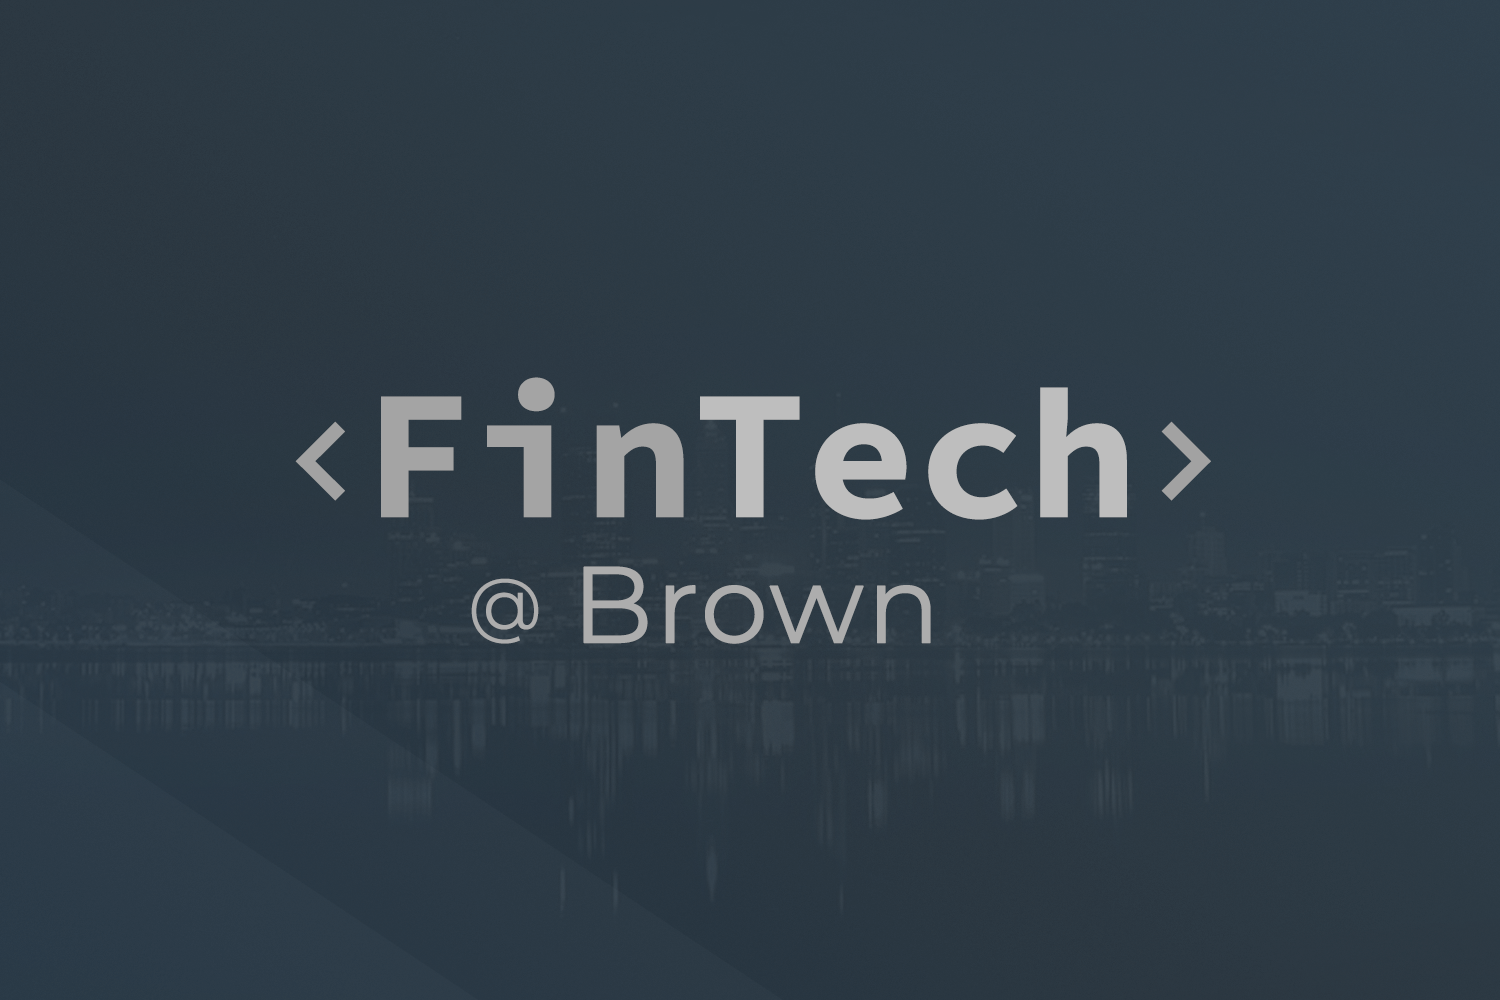
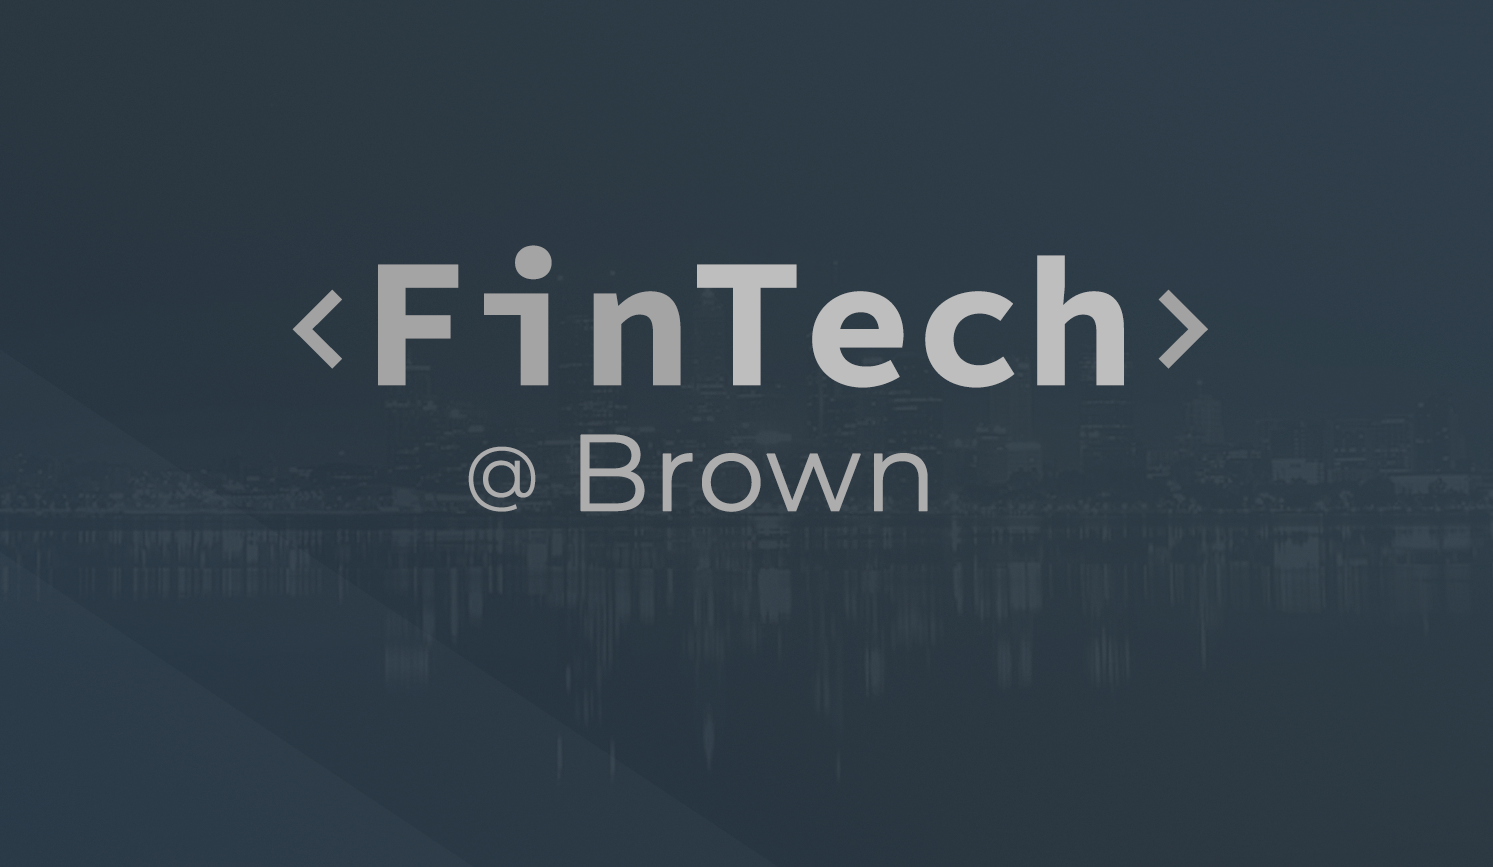
Add files via upload

Changed region(s): [[0.1849, 0.2803, 0.8319, 0.654]]

diff --git a/style.css b/style.css
@@ -9,16 +9,23 @@ html,body
 }
 
 .homePageHeader {
-  background-color: grey;
   background-image: url(website-banner.png);
-  background-position: center;
+  background-position: top;
   background-repeat: no-repeat;
-  background-size: cover;
+  background-size: calc(50% + 512px);
   position: relative;
   background-attachment: fixed;
-  height: 600px;
+  height: calc(29vw + 300px);
+  margin: 0;
+  padding: 0;
+}
+@media screen and (min-width: 1025px) {
+.homePageHeader{
+  background-size: 100%;
+  height: calc(100vw/1.722);
 }
 
+}
 /* Style the top navigation bar */
 
 .homeNavbar {
@@ -89,7 +96,7 @@ html,body
 }
 
 .text1{
-  padding-top: 80px;
+  padding-top: 60px;
   padding-bottom: 20px;
   float:center;
   margin-left: auto;
@@ -409,7 +416,7 @@ margin-bottom: 30px;
 
 .meetText4 {
   color: black;
-  font-family: "Fjalla One";
+  font-family: "Libre One";
   padding-top: 20px;
   padding-bottom: 20px;
   font-size: 15px;
@@ -447,11 +454,11 @@ margin-bottom: 30px;
   padding-top: 10px;
 }
 .left3 {
-  width: 10%;
+  width: 8%;
 }
 
 .right3 {
-  width: 90%;
+  width: 92%;
   float: right;
 }
 .left4 {
@@ -539,7 +546,7 @@ hoverImage:hover span {
 .eventsText {
   color: black;
   text-align: justify;
-  font-family: "Fjalla One";
+  font-family: "Libre One";
   padding-top: 100%;
   padding-bottom: 30px;
   font-size: 14px;
@@ -548,7 +555,7 @@ hoverImage:hover span {
 
 .bottomEventsText {
   color: #B0C4DE;
-  font-family: "Fjalla One";
+  font-family: "Libre One";
   padding-top: 30px;
   padding-left: 8%;
   padding-right: 8%;
@@ -564,6 +571,7 @@ hoverImage:hover span {
   height: 350px;
   margin-bottom: 50px;
   padding-bottom: 30px;
+  font-family: "Libre One";
 }
 
 input {
